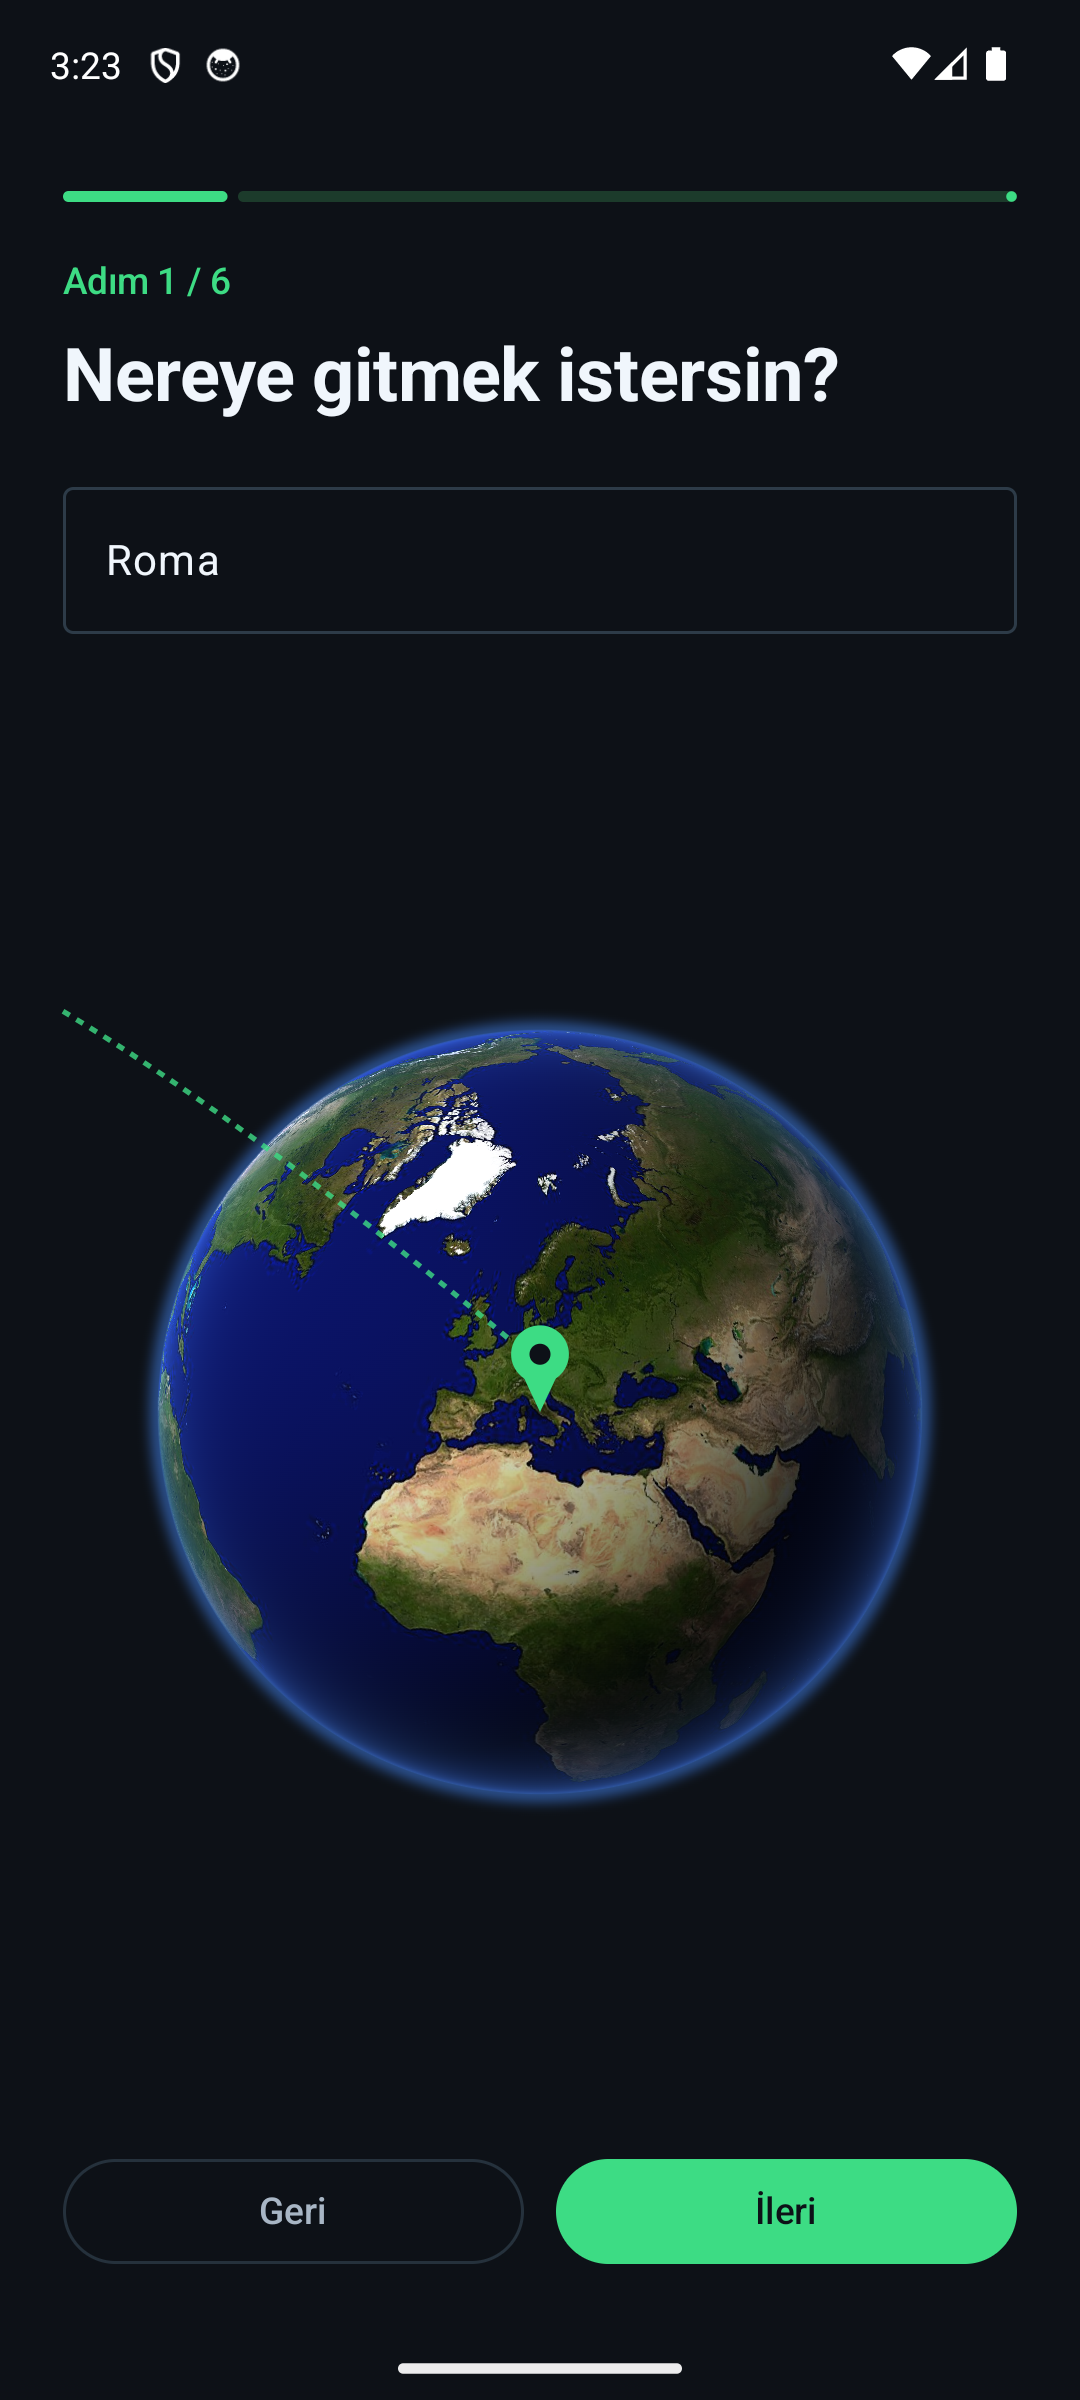
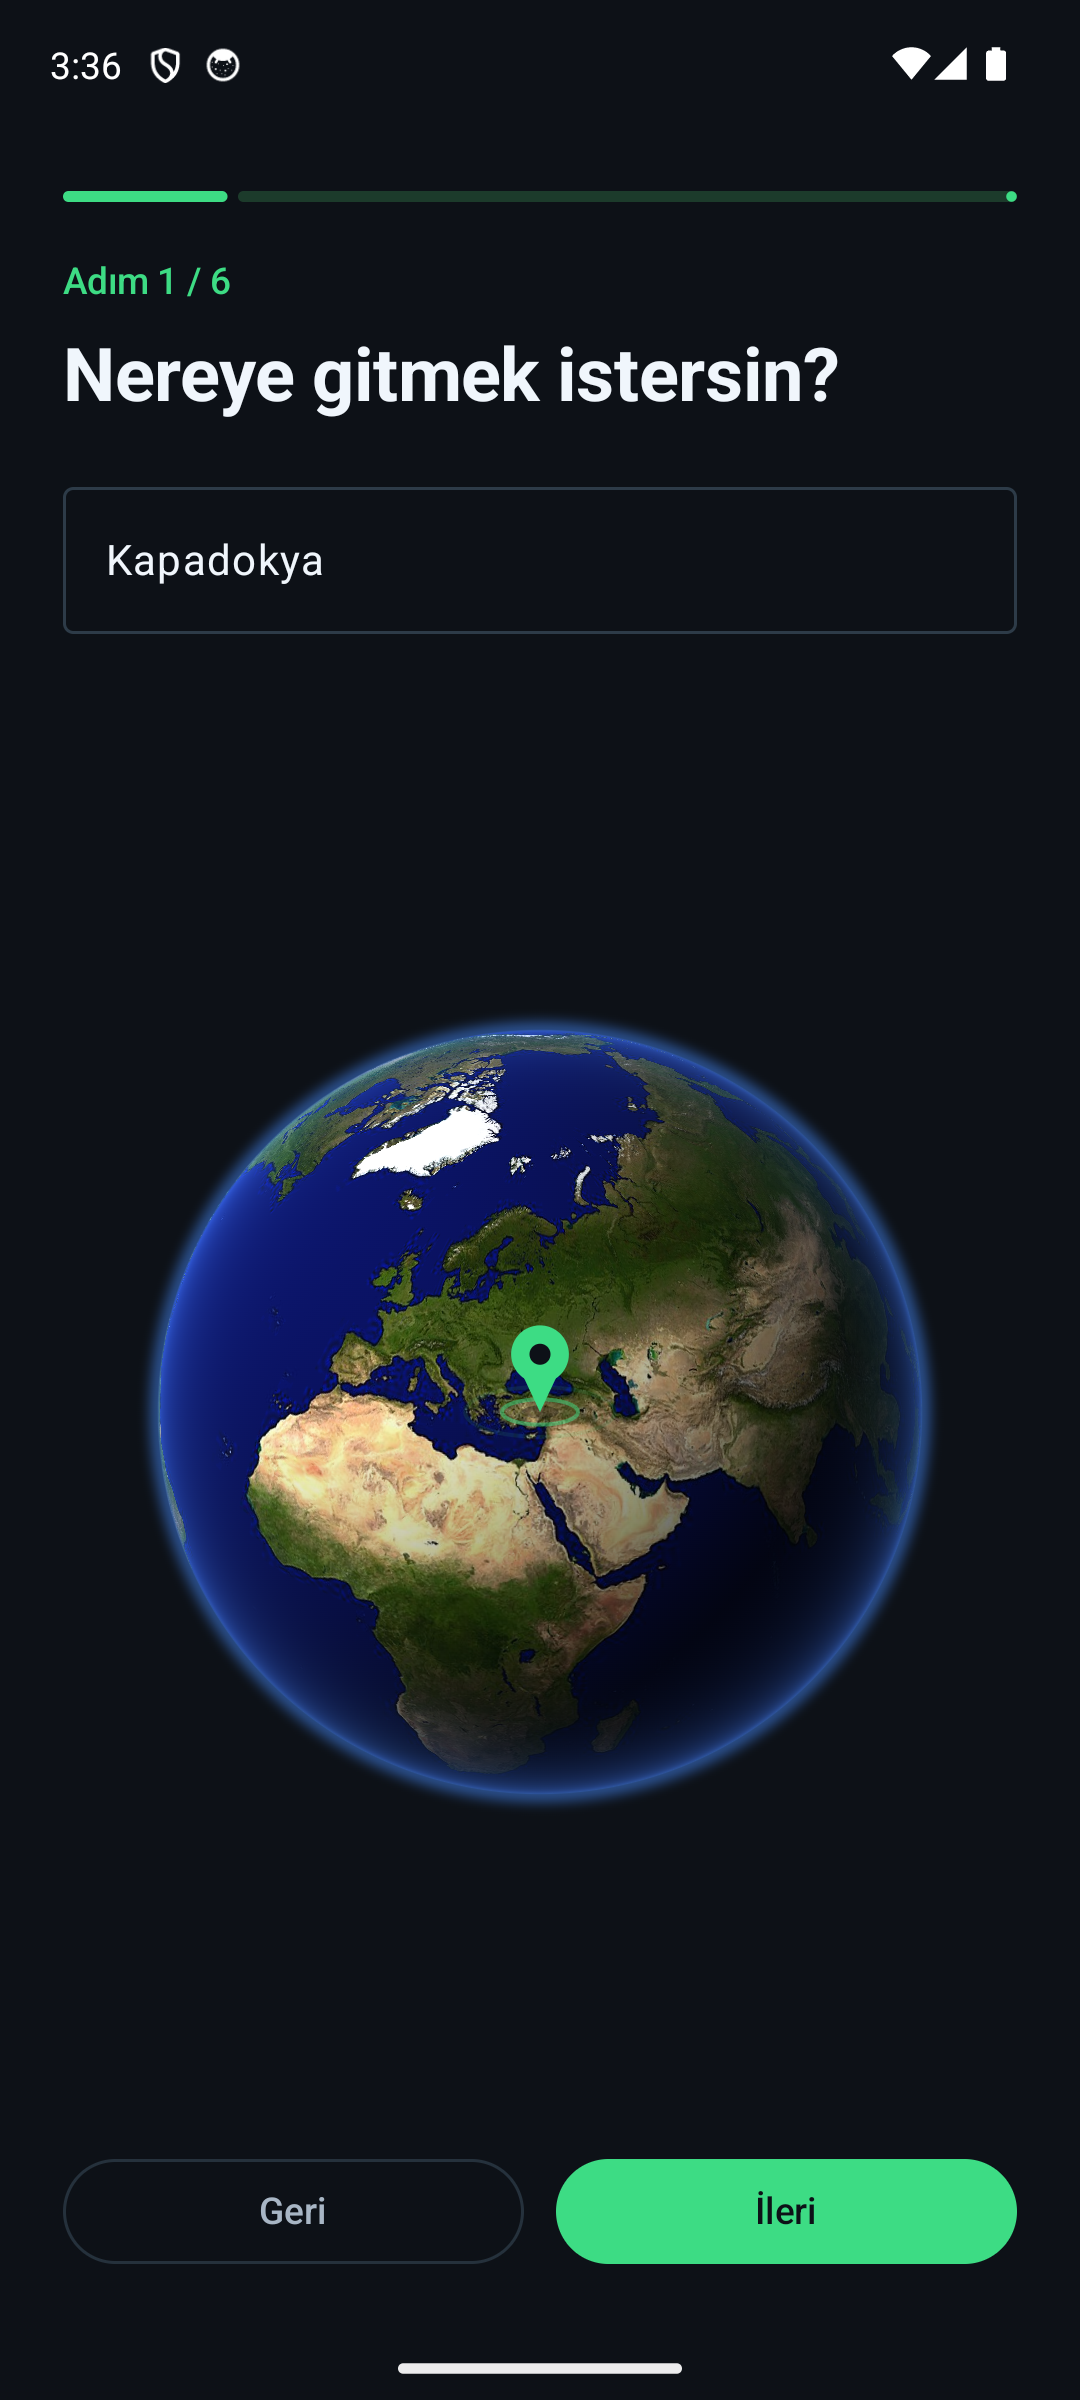
Rename the app to SorGez and land the pin with a ripple
The launcher and home screen now say SorGez, with Gez in green. On the
destination step the dashed line from the screen edge is gone: the pin
drops onto the place and soft rings spread from its tip. The package,
Firebase project and repository keep the old name for now.

Changed region(s): [[0.1222, 0.4062, 0.7944, 0.75], [0.1222, 0.2188, 0.3056, 0.25]]

diff --git a/app/src/main/java/com/ogzhngms/seyahatname/ui/Earth.kt b/app/src/main/java/com/ogzhngms/seyahatname/ui/Earth.kt
@@ -32,7 +32,6 @@ import androidx.compose.ui.geometry.Size
 import androidx.compose.ui.graphics.Brush
 import androidx.compose.ui.graphics.Color
 import androidx.compose.ui.graphics.Path
-import androidx.compose.ui.graphics.PathEffect
 import androidx.compose.ui.graphics.ShaderBrush
 import androidx.compose.ui.graphics.drawscope.DrawScope
 import androidx.compose.ui.graphics.drawscope.Stroke
@@ -120,29 +119,42 @@ fun DestinationEarth(place: Place?, modifier: Modifier = Modifier) {
     }
     val pin by animateFloatAsState(
         if (place != null) 1f else 0f,
-        tween(300, delayMillis = if (place != null) 1000 else 0),
+        tween(if (place != null) 450 else 200, delayMillis = if (place != null) 1000 else 0, easing = FastOutSlowInEasing),
         label = "pin",
+    )
+    val ripple by rememberInfiniteTransition(label = "ripple").animateFloat(
+        initialValue = 0f,
+        targetValue = 1f,
+        animationSpec = infiniteRepeatable(tween(2_000, easing = LinearEasing)),
+        label = "ripple",
     )
     val green = MaterialTheme.colorScheme.primary
     Box(modifier.aspectRatio(1f)) {
         Earth({ lat.value }, { lon.value }, Modifier.fillMaxSize())
-        // The globe centres on the place, so the pin's tip sits at the centre, with a dashed flight path arriving.
+        // The globe centres on the place, so the pin lands at the centre: it drops in, and rings spread
+        // from its tip, flattened as if lying on the ground.
         Canvas(Modifier.fillMaxSize()) {
             if (pin == 0f) return@Canvas
-            val head = center - Offset(0f, 22.dp.toPx())
-            val path = Path().apply {
-                moveTo(0f, size.height * 0.08f)
-                quadraticTo(size.width * 0.2f, center.y - size.height * 0.3f, head.x - 12.dp.toPx(), head.y - 6.dp.toPx())
+            for (offset in listOf(0f, 0.5f)) {
+                val t = (ripple + offset) % 1f
+                val width = (8 + 56 * t).dp.toPx()
+                drawOval(
+                    green.copy(alpha = pin * (1 - t) * 0.8f),
+                    Offset(center.x - width / 2, center.y - width / 6),
+                    Size(width, width / 3),
+                    style = Stroke(1.5.dp.toPx()),
+                )
             }
-            drawPath(path, green.copy(alpha = 0.8f * pin), style = Stroke(2.dp.toPx(), pathEffect = PathEffect.dashPathEffect(floatArrayOf(8f, 8f))))
-            drawOval(Color.Black.copy(alpha = 0.35f * pin), Offset(center.x - 8.dp.toPx(), center.y - 3.dp.toPx()), Size(16.dp.toPx(), 6.dp.toPx()))
-            val tip = Path().apply {
-                moveTo(center.x, center.y)
+            drawOval(Color.Black.copy(alpha = 0.35f * pin), Offset(center.x - 7.dp.toPx(), center.y - 2.5.dp.toPx()), Size(14.dp.toPx(), 5.dp.toPx()))
+            val tip = center - Offset(0f, (1 - pin) * 24.dp.toPx())
+            val head = tip - Offset(0f, 22.dp.toPx())
+            val body = Path().apply {
+                moveTo(tip.x, tip.y)
                 lineTo(head.x - 8.dp.toPx(), head.y + 5.dp.toPx())
                 lineTo(head.x + 8.dp.toPx(), head.y + 5.dp.toPx())
                 close()
             }
-            drawPath(tip, green.copy(alpha = pin))
+            drawPath(body, green.copy(alpha = pin))
             drawCircle(green.copy(alpha = pin), 11.dp.toPx(), head)
             drawCircle(Color(0xFF0D1117).copy(alpha = pin), 4.dp.toPx(), head)
         }

diff --git a/app/src/androidTest/java/com/ogzhngms/seyahatname/TripFlowTest.kt b/app/src/androidTest/java/com/ogzhngms/seyahatname/TripFlowTest.kt
@@ -14,8 +14,8 @@ import androidx.core.view.ViewCompat
 import androidx.core.view.WindowInsetsCompat
 import androidx.test.ext.junit.runners.AndroidJUnit4
 import androidx.test.platform.app.InstrumentationRegistry
-import com.ogzhngms.seyahatname.ui.SeyahatnameApp
-import com.ogzhngms.seyahatname.ui.SeyahatnameTheme
+import com.ogzhngms.seyahatname.ui.SorGezApp
+import com.ogzhngms.seyahatname.ui.SorGezTheme
 import org.junit.Assert.assertEquals
 import org.junit.Rule
 import org.junit.Test
@@ -37,7 +37,7 @@ class TripFlowTest {
     fun answersBecomeAPlanOnScreen() {
         var sent: TripAnswers? = null
         val vm = TripViewModel { sent = it; sample }
-        compose.setContent { SeyahatnameTheme { SeyahatnameApp(vm, demo = false) } }
+        compose.setContent { SorGezTheme { SorGezApp(vm, demo = false) } }
 
         compose.onNodeWithText(text(R.string.action_start)).performClick()
         compose.onNodeWithText(text(R.string.action_next)).assertIsNotEnabled()
@@ -66,7 +66,7 @@ class TripFlowTest {
     fun failedPlanCanBeRetried() {
         var online = false
         val vm = TripViewModel { if (online) sample else error("offline") }
-        compose.setContent { SeyahatnameTheme { SeyahatnameApp(vm, demo = false) } }
+        compose.setContent { SorGezTheme { SorGezApp(vm, demo = false) } }
         vm.start()
         vm.update { it.copy(destination = "Rome") }
         repeat(QUESTIONS.size) { vm.next() }
@@ -83,7 +83,7 @@ class TripFlowTest {
     @Test
     fun backClosesTheKeyboardBeforeLeavingTheStep() {
         val vm = TripViewModel { sample }
-        compose.setContent { SeyahatnameTheme { SeyahatnameApp(vm, demo = false) } }
+        compose.setContent { SorGezTheme { SorGezApp(vm, demo = false) } }
         vm.start()
         vm.update { it.copy(destination = "Rome") }
         repeat(4) { vm.next() }
@@ -104,7 +104,7 @@ class TripFlowTest {
     fun languageButtonOpensTheFlagList() {
         var picked: Language? = null
         val vm = TripViewModel { sample }
-        compose.setContent { SeyahatnameTheme { SeyahatnameApp(vm, demo = false, onLanguageChange = { picked = it }) } }
+        compose.setContent { SorGezTheme { SorGezApp(vm, demo = false, onLanguageChange = { picked = it }) } }
         vm.openProfile()
 
         compose.onNodeWithContentDescription(text(R.string.language_title), substring = true).performScrollTo().performClick()

diff --git a/app/src/main/java/com/ogzhngms/seyahatname/ui/Home.kt b/app/src/main/java/com/ogzhngms/seyahatname/ui/Home.kt
@@ -52,8 +52,11 @@ import androidx.compose.ui.res.painterResource
 import androidx.compose.ui.res.stringResource
 import androidx.compose.ui.semantics.contentDescription
 import androidx.compose.ui.semantics.semantics
+import androidx.compose.ui.text.SpanStyle
+import androidx.compose.ui.text.buildAnnotatedString
 import androidx.compose.ui.text.font.FontWeight
 import androidx.compose.ui.text.style.TextAlign
+import androidx.compose.ui.text.withStyle
 import androidx.compose.ui.unit.dp
 import androidx.compose.ui.unit.sp
 import com.ogzhngms.seyahatname.BuildConfig
@@ -68,7 +71,17 @@ internal fun HomeScreen(onStart: () -> Unit, onProfile: () -> Unit) {
     Box(Modifier.fillMaxSize()) {
         RouteBackdrop(Modifier.fillMaxSize())
         Row(Modifier.fillMaxWidth().padding(start = 24.dp, end = 12.dp, top = 8.dp), verticalAlignment = Alignment.CenterVertically) {
-            Text(stringResource(R.string.app_name), style = MaterialTheme.typography.titleLarge, fontWeight = FontWeight.Bold, modifier = Modifier.weight(1f))
+            // The wordmark: "Sor" (ask) in white, "Gez" (travel) in green.
+            val gez = MaterialTheme.colorScheme.primary
+            Text(
+                buildAnnotatedString {
+                    append("Sor")
+                    withStyle(SpanStyle(color = gez)) { append("Gez") }
+                },
+                style = MaterialTheme.typography.titleLarge,
+                fontWeight = FontWeight.Bold,
+                modifier = Modifier.weight(1f),
+            )
             IconButton(onClick = onProfile) {
                 Icon(
                     painterResource(R.drawable.ic_account_circle),

diff --git a/app/src/main/java/com/ogzhngms/seyahatname/MainActivity.kt b/app/src/main/java/com/ogzhngms/seyahatname/MainActivity.kt
@@ -10,8 +10,8 @@ import androidx.activity.enableEdgeToEdge
 import androidx.activity.viewModels
 import androidx.lifecycle.viewmodel.initializer
 import androidx.lifecycle.viewmodel.viewModelFactory
-import com.ogzhngms.seyahatname.ui.SeyahatnameApp
-import com.ogzhngms.seyahatname.ui.SeyahatnameTheme
+import com.ogzhngms.seyahatname.ui.SorGezApp
+import com.ogzhngms.seyahatname.ui.SorGezTheme
 import kotlinx.coroutines.delay
 
 class MainActivity : ComponentActivity() {
@@ -34,8 +34,8 @@ class MainActivity : ComponentActivity() {
             navigationBarStyle = SystemBarStyle.dark(Color.TRANSPARENT),
         )
         setContent {
-            SeyahatnameTheme {
-                SeyahatnameApp(viewModel, demo, onLanguageChange = { AppSettings.saveLanguage(this, it); recreate() })
+            SorGezTheme {
+                SorGezApp(viewModel, demo, onLanguageChange = { AppSettings.saveLanguage(this, it); recreate() })
             }
         }
     }

diff --git a/app/src/main/java/com/ogzhngms/seyahatname/ui/Screens.kt b/app/src/main/java/com/ogzhngms/seyahatname/ui/Screens.kt
@@ -93,7 +93,7 @@ import java.util.Locale
 import org.json.JSONObject
 
 @Composable
-fun SeyahatnameApp(vm: TripViewModel, demo: Boolean, onLanguageChange: (Language) -> Unit = {}) {
+fun SorGezApp(vm: TripViewModel, demo: Boolean, onLanguageChange: (Language) -> Unit = {}) {
     val context = LocalContext.current
     var currency by remember { mutableStateOf(AppSettings.currency(context)) }
     val language = Language.entries.firstOrNull { it.tag == Locale.getDefault().language }

diff --git a/app/src/main/java/com/ogzhngms/seyahatname/ui/Theme.kt b/app/src/main/java/com/ogzhngms/seyahatname/ui/Theme.kt
@@ -32,6 +32,6 @@ private val colors = darkColorScheme(
 )
 
 @Composable
-fun SeyahatnameTheme(content: @Composable () -> Unit) {
+fun SorGezTheme(content: @Composable () -> Unit) {
     MaterialTheme(colorScheme = colors, content = content)
 }

diff --git a/README.md b/README.md
@@ -1,10 +1,10 @@
-# Seyahatname
+# SorGez
 
 [![CI](https://github.com/ogzhngms/seyahatname-android/actions/workflows/ci.yml/badge.svg)](https://github.com/ogzhngms/seyahatname-android/actions/workflows/ci.yml)
 
 An Android trip planner built with Jetpack Compose and Gemini. It opens on a turning Earth with a Start button at its centre, over dashed flight routes. Start zooms into the Earth and the app asks six short questions, one at a time: where you are going, for how long, who you are travelling with, your budget, what you want to do and the pace you like. When you confirm, it turns the answers into a prompt, asks Gemini for the plan as JSON that follows a fixed schema, and renders that JSON as a day-by-day itinerary.
 
-The name comes from Evliya Çelebi's *Seyahatname*, the 17th-century Ottoman book of travels.
+The name joins two Turkish verbs, *sor* (ask) and *gez* (travel): the app asks, you travel. The logo splits it as Sor|Gez; the store name is Sorgez.
 
 | Home | Questions | Plan | Profile |
 |---|---|---|---|
